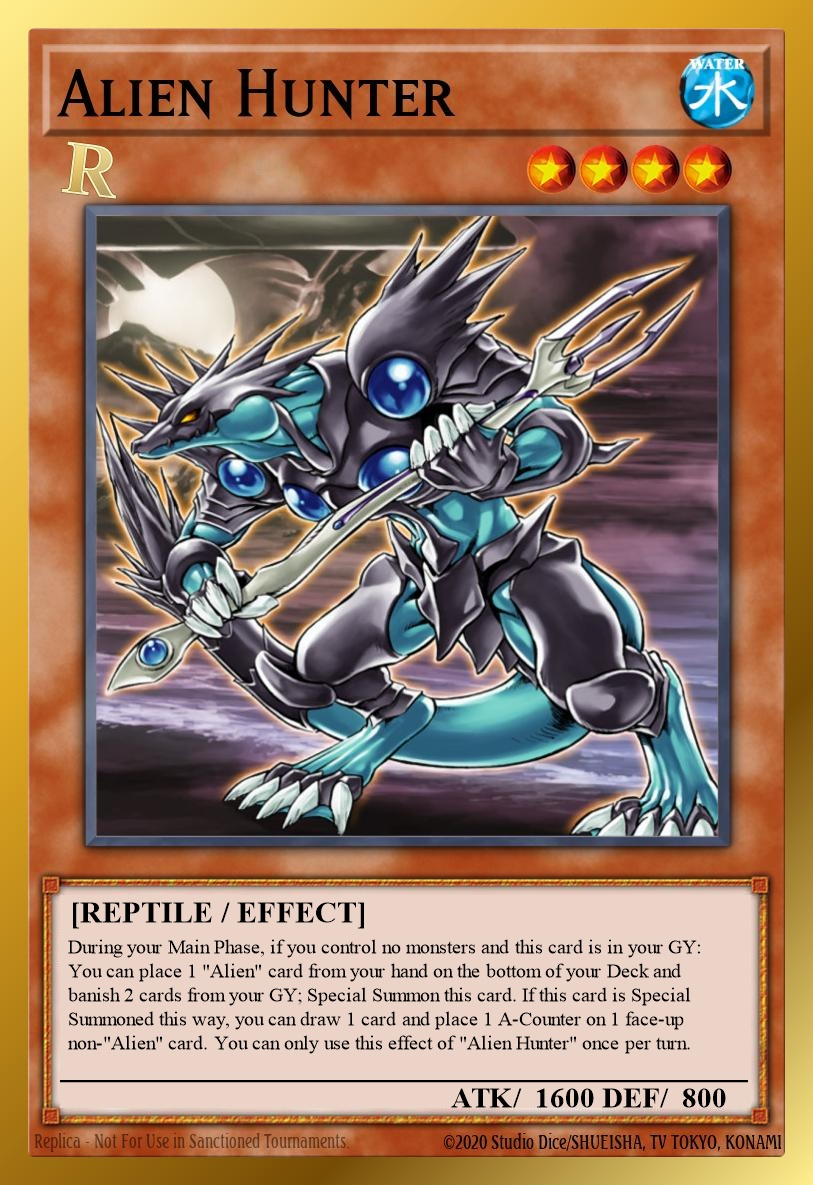
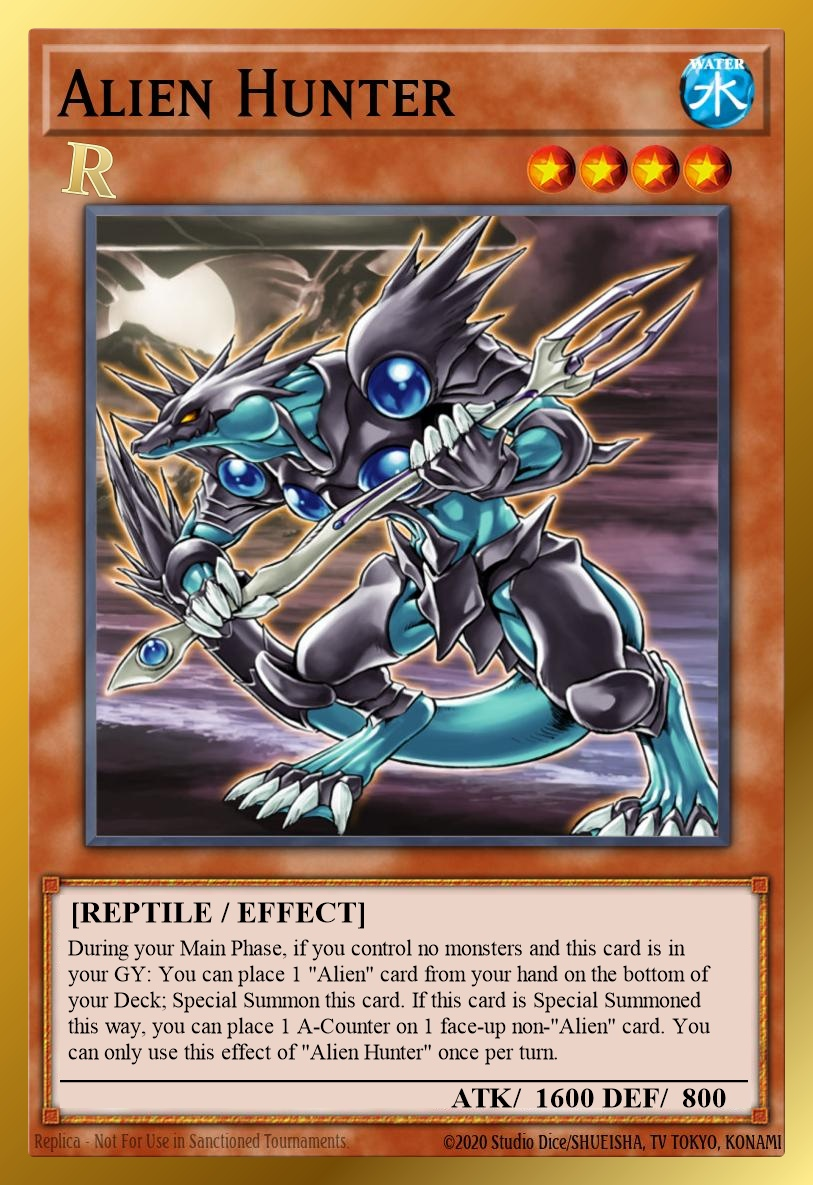
Nerf Alien Hunter

Changed region(s): [[0.0615, 0.7806, 0.861, 0.9055]]

diff --git a/Redux/scripts/build-cards-cdb.js b/Redux/scripts/build-cards-cdb.js
@@ -100,10 +100,11 @@ module.exports = function buildCardsDb({ reduxRoot }) {
       63253763,
     );
   const alienHunterTextResult = db
-    .prepare("UPDATE texts SET desc = ?, str1 = ? WHERE id = ?")
+    .prepare("UPDATE texts SET desc = ?, str1 = ?, str2 = ? WHERE id = ?")
     .run(
-      'During your Main Phase, if you control no monsters and this card is in your GY: You can place 1 "Alien" card from your hand on the bottom of your Deck and banish 2 cards from your GY; Special Summon this card. If this card is Special Summoned this way, you can draw 1 card and place 1 A-Counter on 1 face-up non-"Alien" card. You can only use this effect of "Alien Hunter" once per turn.',
+      'During your Main Phase, if you control no monsters and this card is in your GY: You can place 1 "Alien" card from your hand on the bottom of your Deck; Special Summon this card. If this card is Special Summoned this way, you can place 1 A-Counter on 1 face-up non-"Alien" card. You can only use this effect of "Alien Hunter" once per turn.',
       "Special Summon this card from your GY",
+      'Place 1 A-Counter on 1 face-up non-"Alien" card',
       62315111,
     );
   const alienGreyTextResult = db

diff --git a/README.md b/README.md
@@ -81,7 +81,7 @@ Redux Limits: `0` = forbidden; `1` = limited; `2` = semi-limited; `3` = unlimite
 | `1` [Alien Crop Circles](https://yugioh.fandom.com/wiki/Crop_Circles) | 🔄 Counts as Alien; flips cards face-down; shared Alien GY effect searches card |
 | `3` [Alien Dog](https://yugioh.fandom.com/wiki/Alien_Dog) | ⬆ Hand special summon while controlling Alien; once per turn 1 A-Counter on non-Alien card; Tuner |
 | `3` [Alien Grey](https://yugioh.fandom.com/wiki/Alien_Grey) | 🔄 Summon/flip trigger draws; shared Alien GY effect sends Spell/Trap from Deck |
-| `3` [Alien Hunter](https://yugioh.fandom.com/wiki/Alien_Hunter) | 🔄 Main Phase GY summon by bottom-decking Alien from hand and banishing 2 GY cards; hard once per turn; can draw and give A-Counter on non-Alien card |
+| `3` [Alien Hunter](https://yugioh.fandom.com/wiki/Alien_Hunter) | 🔄 Main Phase GY summon by bottom-decking Alien from hand; hard once per turn; can give A-Counter on non-Alien card |
 | `3` [Alien Mass Hypnosis](https://yugioh.fandom.com/wiki/Mass_Hypnosis) | 🔄 Counts as Alien; controls up to 2 A-Counter monsters; they deal no battle damage; shared Alien GY effect flips 1 card face-down |
 | `3` [Alien Mother](https://yugioh.fandom.com/wiki/Alien_Mother) | 🔄 Summons itself with A-Counters; steals battle-destroyed A-Counter monsters; protects itself |
 | `3` [Alien Mothership Musk'I](https://yugioh.fandom.com/wiki/Flying_Saucer_Muusik%27i) | 🔄 Counts as Alien; hand summons with no monsters vs opponent monster; discards to summon or search Alien |
